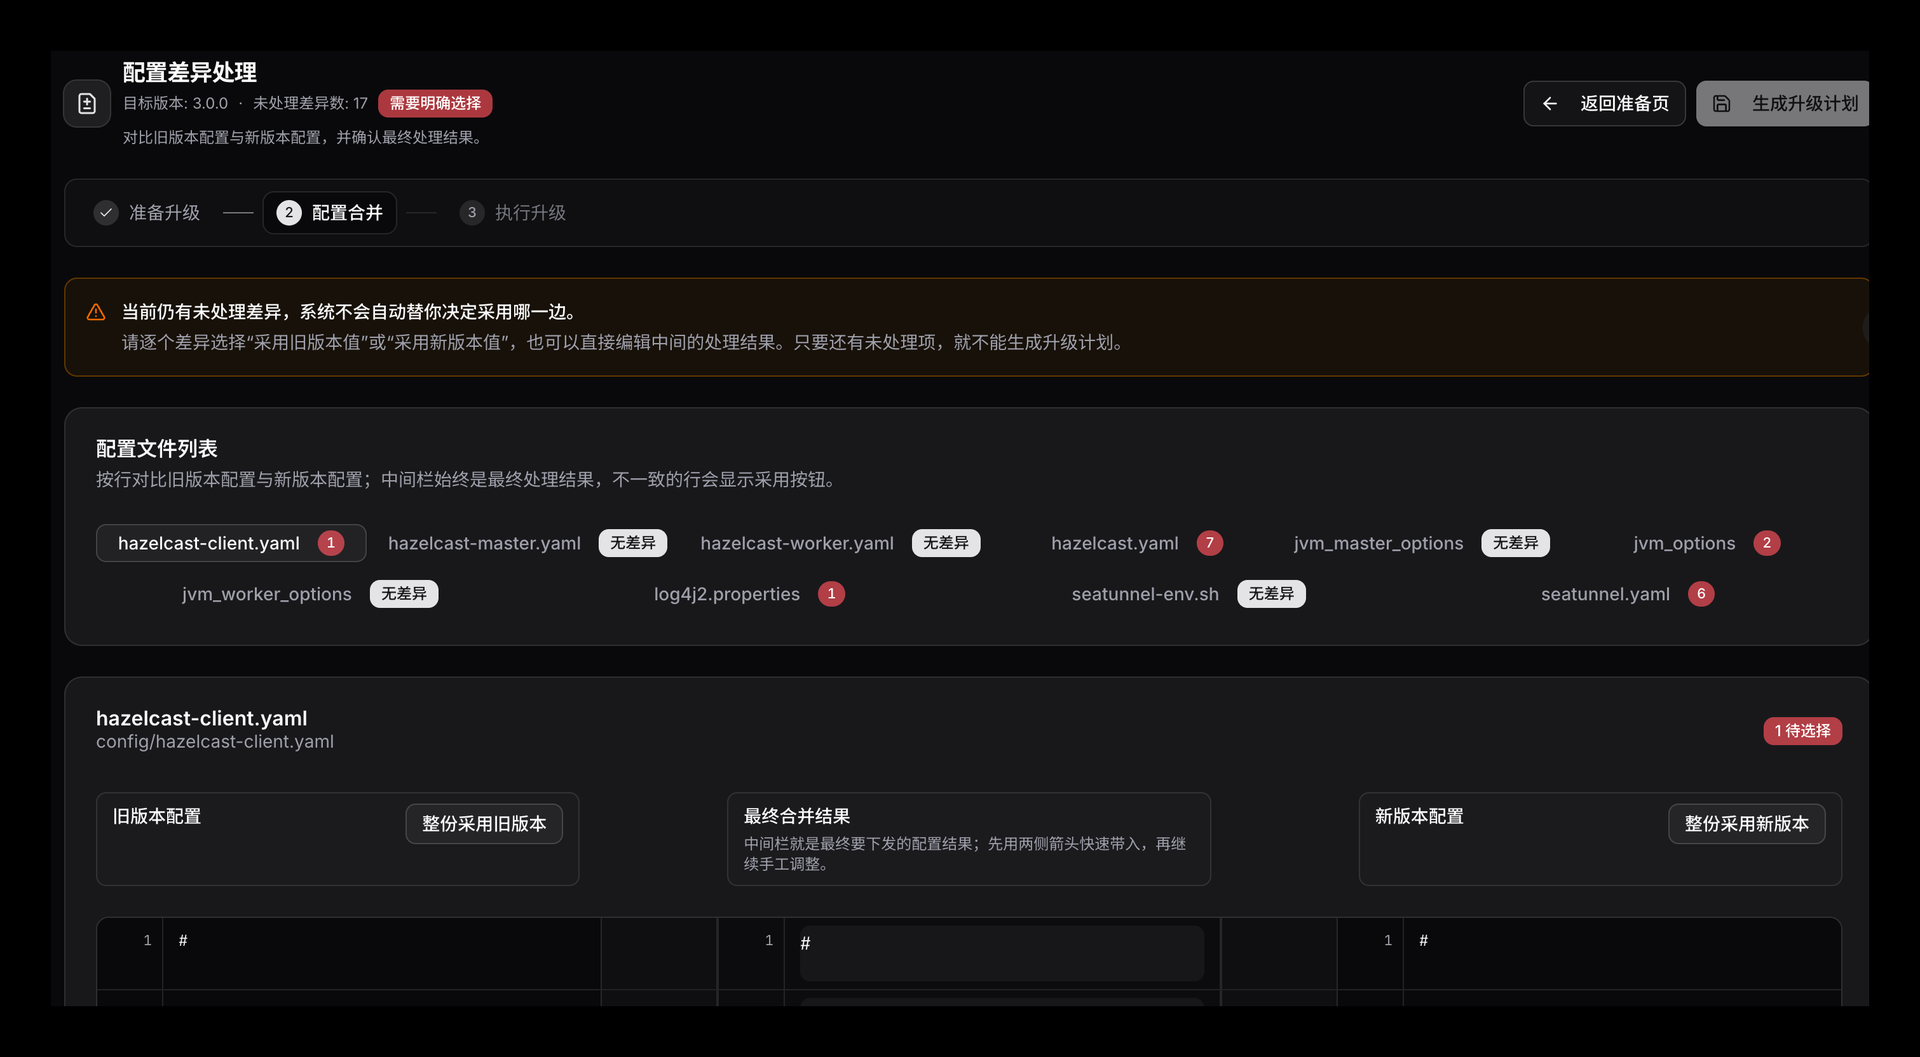
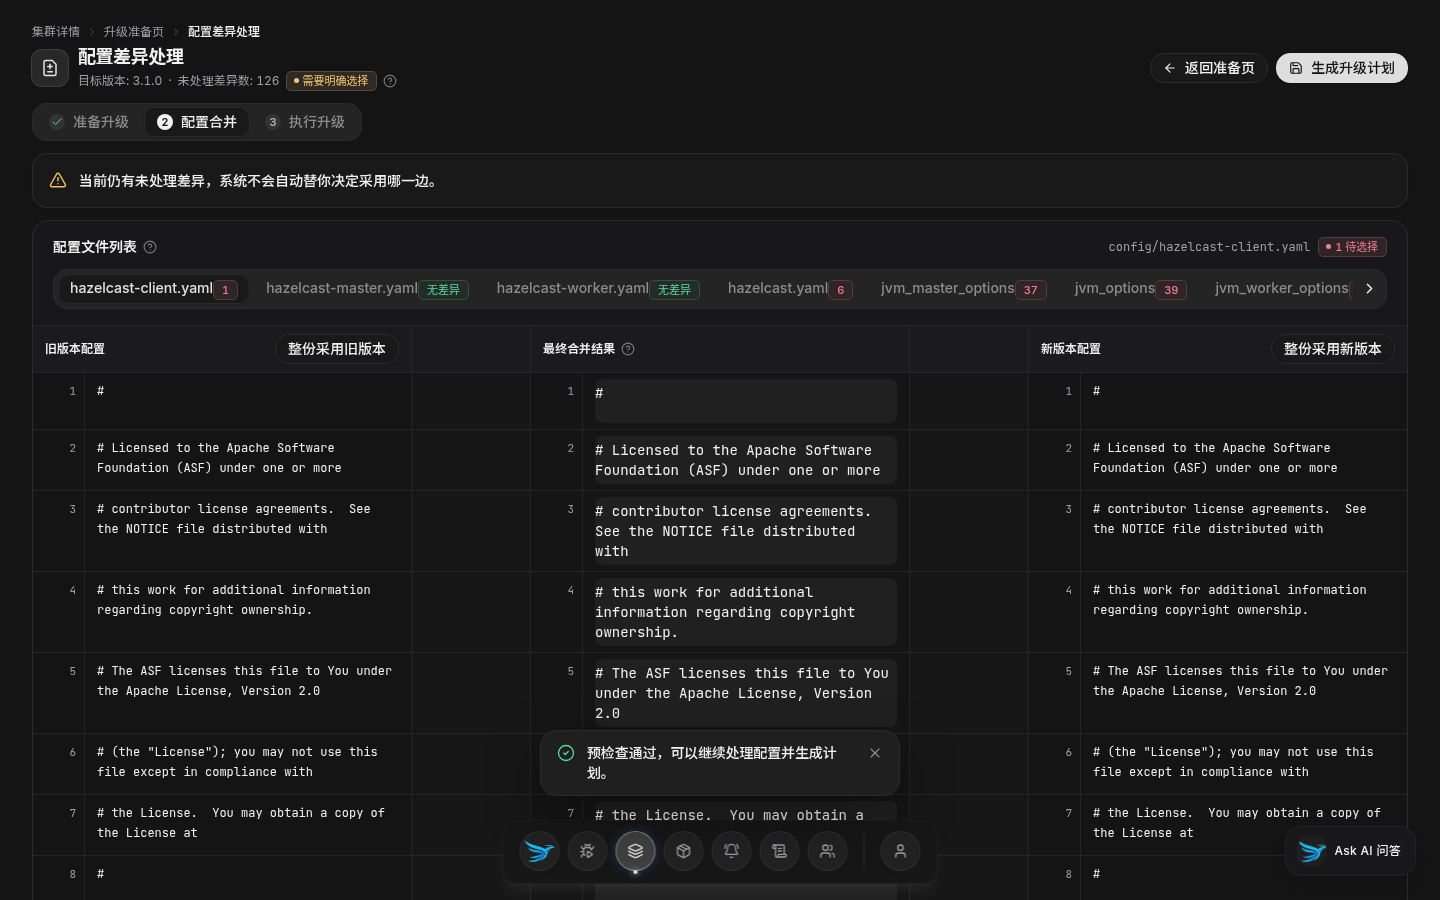
docs(集群升级): 按 PR #181 新版界面重拍升级三阶段截图并补充准备页配图

diff --git a/i18n/en/docusaurus-plugin-content-docs/current/host-cluster/cluster-management.md b/i18n/en/docusaurus-plugin-content-docs/current/host-cluster/cluster-management.md
@@ -66,7 +66,9 @@ In cluster details, open **Upgrade** (or review past runs under **Upgrade Record
 
 1. Choose the **Target Version** and confirm the **Target Install Directory** (defaults can follow the version).
 2. Prepare the target package in [Package management](../packages-plugins/package-management) and the required connectors in the [Plugin marketplace](../packages-plugins/plugin-marketplace). The UI prompts you to fill gaps when assets are missing.
-3. Click **Run Precheck**. After it passes, continue to **Config**. If you change the target version or directory, **Rerun Precheck** first.
+3. Click **Run Precheck**, confirm each node's **Target JDK** in the target node list, then click **Continue to Config Merge**. If you change the target version, directory, or JDK, **Rerun Precheck** first.
+
+![Upgrade prepare page: precheck summary, package info, and target node JDK selection](/img/screenshots/50-upgrade-prepare.png)
 
 During upgrade, the cluster switches to the target connector JARs and incrementally applies `lib` / `plugins` dependencies from the locally prepared target plugins. Same-named base JARs that ship with the install package are kept.
 
